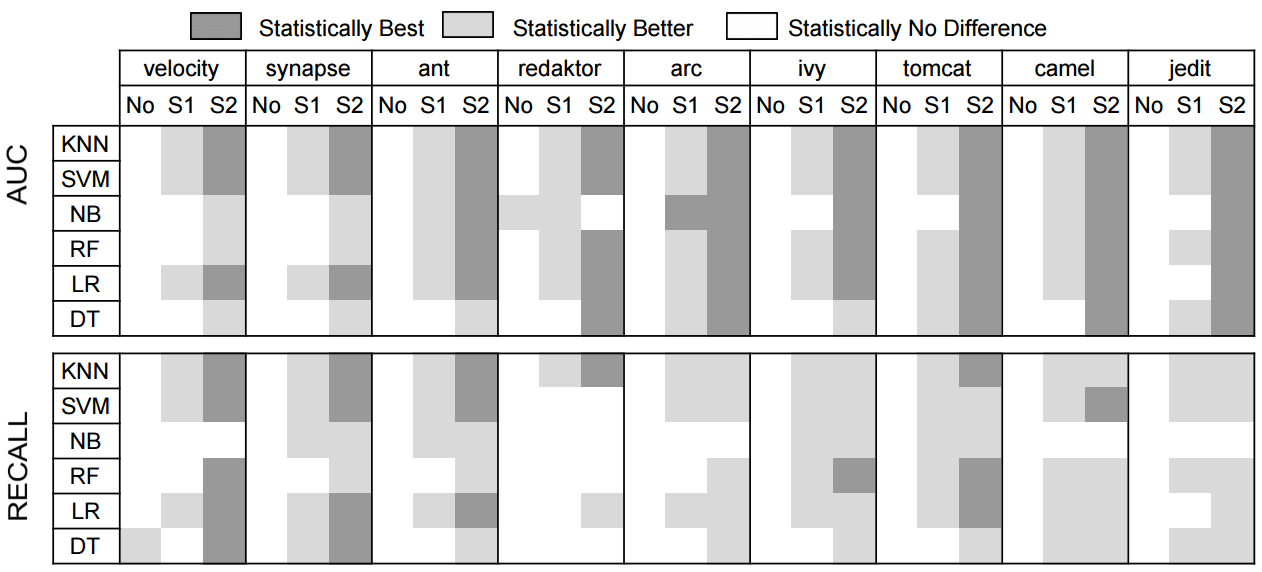
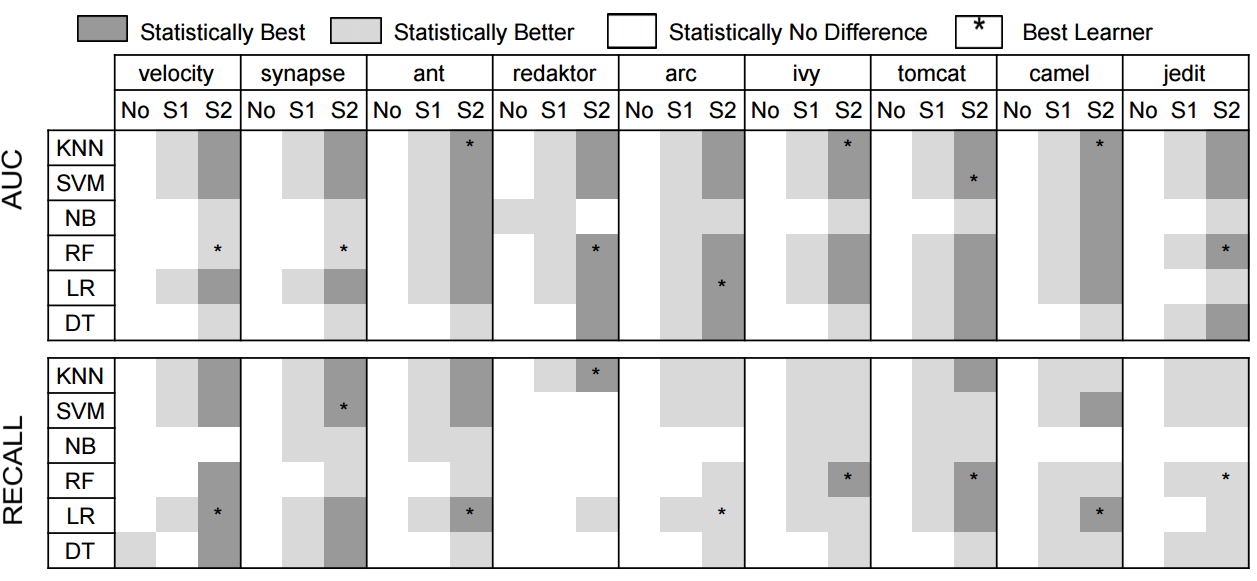
update

diff --git a/result.tex b/result.tex
@@ -1,20 +1,19 @@
 \newcommand\fnote[1]{\captionsetup{font=small}\caption*{#1}}
 
-\begin{figure*}[!t]
-\begin{minipage}{.5\linewidth}
-\centering
-        \includegraphics[width=.95\linewidth]{./fig/AUC_recall_untuned.png}
-    \end{minipage}%
-\begin{minipage}{.5\linewidth}
-        \centering
-        \includegraphics[width=.95\linewidth]{./fig/prec_pf_untuned.png}
-    \end{minipage}%
-    \caption{SMOTE1 improvement over No-SMOTE. Legends represent the classifiers mentioned in \tion{classes}}
-    \vspace{-11pt}
-    \fnote{For subfigures (AUC, Recall and Precision): larger y-values are {\em better}, if the y-value goes {\em negative}, then the corresponding learner trained on SMOTE1 data performs {\em worse} than learner learnt on raw data. For false alarms, the plot must be interpreted differently: larger y-values are {\em worse}, if the y-value goes {\em positive}, then the corresponding learner trained on SMOTE1 data performs {\em worse} than learner learnt on raw data. The corresponding percentage of minority class (in this case, defective class) is written beside each dataset.}
-    \label{fig:untuned}
-\vspace{-0.5cm}
-\end{figure*}
+% \begin{figure*}[!t]
+% \begin{minipage}{.5\linewidth}
+% \centering
+%         \includegraphics[width=.95\linewidth]{./fig/AUC_recall_untuned.png}
+%     \end{minipage}%
+% \begin{minipage}{.5\linewidth}
+%         \centering
+%         \includegraphics[width=.95\linewidth]{./fig/prec_pf_untuned.png}
+%     \end{minipage}%
+%     \caption{SMOTE1 improvement over No-SMOTE. Legends represent the classifiers mentioned in \tion{classes}}
+%     \vspace{-11pt}
+%     \fnote{For subfigures (AUC, Recall and Precision): larger y-values are {\em better}, if the y-value goes {\em negative}, then the corresponding learner trained on SMOTE1 data performs {\em worse} than learner learnt on raw data. For false alarms, the plot must be interpreted differently: larger y-values are {\em worse}, if the y-value goes {\em positive}, then the corresponding learner trained on SMOTE1 data performs {\em worse} than learner learnt on raw data. The corresponding percentage of minority class (in this case, defective class) is written beside each dataset.}
+%     \label{fig:untuned}
+% \end{figure*}
 
 \begin{figure*}[!htbp]
 \begin{minipage}{.5\linewidth}
@@ -25,9 +24,9 @@
         \centering
         \includegraphics[width=.9\linewidth]{./fig/prec_pf.png}
     \end{minipage}%
-    \caption{Scott Knott analysis of No-SMOTE, SMOTE1 and SMOTE2. The column headers are denoted as No for No-SMOTE, S1 for SMOTE1 and S2 for SMOTE2.}
+    \caption{Scott Knott analysis of No-SMOTE, SMOTE1 and SMOTE2. The column headers are denoted as No for No-SMOTE, S1 for SMOTE1 and S2 for SMOTE2. $(\ast)$ Mark represents the best learner combined with its techniques.}
     \label{fig:stats}
-\vspace{-0.8cm}
+\vspace{-0.2cm}
 \end{figure*}
 
 \begin{figure*}[!t]
@@ -44,57 +43,33 @@
     \vspace{-10pt}
     \fnote{For subfigures (AUC, Recall and Precision): larger y-values are {\em better}, if the y-value goes {\em negative}, then the corresponding learner trained on SMOTE2 data performs {\em worse} than learner learnt on SMOTE1 data. For false alarms, the plot must be interpreted differently: larger y-values are {\em worse}, if the y-value goes {\em positive}, then the corresponding learner trained on SMOTE2 data performs {\em worse} than learner learnt on SMOTE1 data. The corresponding percentage of minority class (in this case, defective class) is written beside each dataset.}
     \label{fig:tuned}
-\vspace{-0.7cm}
-
 \end{figure*}
 
 \section{Results}
 \label{sect:results}
 
 \subsection{\textbf{RQ1: Is standard ``off-the-shelf'' SMOTE1 preprocessing method useful for defect prediction?}}
-Figure~\ref{fig:untuned} represents the improvement of SMOTE1 (median value) against the No-SMOTE (median value) results and Figure~\ref{fig:tuned} represents the improvement of SMOTE2 (median value) against SMOTE1 (median value) results. Each figure contains subfigures for all our 4 evaluation measures (mentioned in \tion{measure}) compared with 6 learners (mentioned in \tion{classes}). 
 
+Figure~\ref{fig:stats} shows Scott-Knott analysis of No-Smote, SMOTE1 and SMOTE2. Each subfigure shows the 4 different evaluation measures (mentioned in \tion{measure}) compared with 6 learners (mentioned in \tion{classes}). The columns are sorted in the decreasing percentage of defective classes from left to right.
 
+For many of the results in Figure~\ref{fig:stats}, the changes
+resulting from applying SMOTE1 are very modest. There are improvements in AUC and recall with SMOTE1 over No-Smote but the improvements are not big as compared with SMOTE2.
 
-For subfigures (AUC, Recall and Precision) in each Figure~\ref{fig:untuned} and \ref{fig:tuned}:
-\bi
-\item 
-{\em Larger} y-values
-are {\em better} 
-\item
-If the y-value goes {\em negative}, then the corresponding learner trained on SMOTE1/SMOTE2 data is {\em worse} than learner learnt on raw/SMOTE1 data respectively. 
-\ei
-For the false alarms, the
-plots must be interpreted differently:
-\bi
-\item
-{\em Larger} y-values are {\em worse};
-\item
-If the y-value goes {\em positive} then the corresponding learner trained on SMOTE1/SMOTE2 data is {\em worse} than learner learnt on raw/SMOTE1 data respectively.
-\ei
-In both the figures, the
-X-axis shows all 9 datasets in the decreasing percentage of defective classes from left to right. The corresponding percentage of minority class (defective class) is written beside each dataset. 
-According to the proponents
-of SMOTE, SMOTE's improvements should
-{\em increase} as we move left to right
-across those plots.
-
-For many of the results in  Figure~\ref{fig:untuned}, the changes
-resulting from applying SMOTE1 are very modest. (often, less than 20\%).
 The two consistent exceptions to that pattern are:
 \bi
 \item 
-KNN seems to be effected by SMOTE1 more than any other learner.
+SMOTE1 is not preferred when we can achieve better performance with SMOTE2
 \item 
-Occasionally, SMOTE1 leads to dramatic drops in precision but in many cases, they are not statistically significant different as show in Figure~\ref{fig:stats}.
-\item 
-Looking left-to-right across
-Figure~\ref{fig:untuned}c, we see more
-large positive increases on the
-right-hand-side than the left.   
+Occasionally, SMOTE1 leads to poor performance in precision and false alarm but in many cases, they are not statistically significant different as shown in Figure~\ref{fig:stats}.  
 \ei
 
-We are not seeing improvement in precision is because of the way in which SMOTE works. False positives (from Figure~\ref{fig:cmatrix}) do not get reduced after applying SMOTE. SMOTE generates synthetic examples within defective data samples and its neighbors making more denser region for positive samples. So if there are any actual negative samples surrounding these denser regions will now get wrongly classified as positive by learners. 
+We are not seeing improvement in precision and decrement in false alarm is behind its maths. Zhang's~\cite{menzies2007problems} equation as given by Zhang can be rearranged to:
+\[
+  \mathit{pf}=  \frac{pos}{neg} *\frac{1-\mathit{prec}}{\mathit{prec}}* \mathit{pd}\]
+
+Pos and neg in the equation represents the imbalance ratio among the data samples. When we consider, pos to neg ratio and $prec$ constant, we are seeing there is direct relation between $pf$ and $pd$. So if pd is improved, we are bound to see improvement in pf. On the other hand with prec, pf has indirect relation and since pf is increasing which is making prec improvements negligible.
+
+%  False positives (from Figure~\ref{fig:cmatrix}) do not get reduced after applying SMOTE. SMOTE generates synthetic examples within defective data samples and its neighbors making more denser region for positive samples. So if there are any actual negative samples surrounding these denser regions will now get wrongly classified as positive by learners. 
 
 % Based on these results,  we can best recommend SMOTE1 when:
 % \bi
@@ -122,15 +97,51 @@ sometimes, adversely affect
 precision.
 \end{lesson1}
 
+\begin{figure*}[!htbp]
+    \centering
+    \begin{minipage}{.33\textwidth}
+    \centering
+        \includegraphics[width=.95\linewidth]{./fig/k.png}
+        {\bf Figure~\ref{fig:para}a:} Tuned values for $k$.
+    \end{minipage}%
+    \begin{minipage}{.33\textwidth}
+    \centering
+        \includegraphics[width=.95\linewidth]{./fig/m.png}
+        {\bf Figure~\ref{fig:para}b:} Tuned values for $m$.
+    \end{minipage}
+    \begin{minipage}{.33\textwidth}
+    \centering
+        \includegraphics[width=.95\linewidth]{./fig/r.png}
+        {\bf Figure~\ref{fig:para}c:} Tuned values for $r$.
+    \end{minipage}
+    \caption{Datasets vs Parameter Variation}
+    \label{fig:para}
+\vspace{-0.4cm}
+\end{figure*}
+
 \subsection{\textbf{RQ2: Can SMOTE2 achieve better results?}}
 
 Figure~\ref{fig:tuned} shows the results
-after applying SMOTE2. All these
-plots show the {\em delta} between
-the results obtained by SMOTE1 and SMOTE2.
-Similar to Figure~\ref{fig:untuned} before, {\em positive}  values
-are better for AUC, recall and precision
-wile {\em negative} values are better for false alarms.
+after applying SMOTE2. The
+plot shows the {\em delta} between
+the results obtained by SMOTE2 over SMOTE1.
+
+For subfigures (AUC, Recall and Precision):
+\bi
+\item 
+{\em Larger} y-values
+are {\em better} 
+\item
+If the y-value goes {\em negative}, then the corresponding learner trained on SMOTE2 data is {\em worse} than learner learnt on SMOTE1 data respectively. 
+\ei
+For the false alarms, the
+plots must be interpreted differently:
+\bi
+\item
+{\em Larger} y-values are {\em worse};
+\item
+If the y-value goes {\em positive} then the corresponding learner trained on SMOTE2 data is {\em worse} than learner learnt on SMOTE1 data respectively.
+\ei
 
 The benefit of SMOTE2's tunings is clearly evident in the AUC results of  Figure~\ref{fig:tuned}a:
 all learners show large performance improvements. And from the Scott-Knott test shown in Figure~\ref{fig:stats}, SMOTE2 always have significantly best results for AUC. For recall, in most learners either SMOTE1 or SMOTE2 are significantly the same, or SMOTE2 performed better. 
@@ -153,9 +164,6 @@ SMOTE2 offers additional benefits for datasets that are not greatly
 imbalanced.
 \ei
 
- 
-
-
 
 % results are dramat
 % Now when we look at the results of AUC from figure~\ref{fig:tuned}a, only 1 bar is negative, and rest all the remaining 53 bars (in total 9 datasets with 6 learners in each) have  positive effect after when we tune the parameters of SMOTE1. We are seeing a maximum improvement of about 70\% and on an average 50\% for each learner in all datasets. These improvements are quite steep in nature and just to remind you that these results are improvement over SMOTE1. If we combine the results, then we can surely say to tune the parameters of SMOTE1 and train using any learner, we will get atleast 100\% improvement in most cases.
@@ -173,29 +181,6 @@ In summary:
 \end{lesson1}
 
 %Based on these results, we strongly recommend SMOTE2 for handling not just unbalanced datasets but, in fact, for all datasets.
-
-\begin{figure*}[!t]
-    \centering
-    \begin{minipage}{.33\textwidth}
-    \centering
-        \includegraphics[width=.95\linewidth]{./fig/k.png}
-        {\bf Figure~\ref{fig:para}a:} Tuned values for $k$.
-    \end{minipage}%
-    \begin{minipage}{.33\textwidth}
-    \centering
-        \includegraphics[width=.95\linewidth]{./fig/m.png}
-        {\bf Figure~\ref{fig:para}b:} Tuned values for $m$.
-    \end{minipage}
-    \begin{minipage}{.33\textwidth}
-    \centering
-        \includegraphics[width=.95\linewidth]{./fig/r.png}
-        {\bf Figure~\ref{fig:para}c:} Tuned values for $r$.
-    \end{minipage}
-    \caption{Datasets vs Parameter Variation}
-    \label{fig:para}
-\vspace{-0.4cm}
-\end{figure*}
-
 
 \subsection{\textbf{RQ3: Does hyperparameter optimization lead to different optimal configurations for different datasets?}}
 
@@ -220,8 +205,16 @@ Clearly:
 \end{lesson1}
  That is,  reusing tunings  suggested  by  any other  previous study  for any dataset is \underline{{\em not}} recommended. Instead,  it is better to
       use  automatic  tuning  methods  to find the best tuning parameters for the current dataset.
-      
-\begin{figure*}[!t]
+
+\begin{figure}[!htbp]
+  \captionsetup{justification=centering}
+  \includegraphics[width=\linewidth]{./fig/runtimes.png}
+  \caption{Datasets vs Runtimes}
+  \label{runtime}
+\vspace{-0.7cm}
+\end{figure}
+
+\begin{figure*}[!htbp]
 \begin{minipage}{.5\linewidth}
 \centering
         \includegraphics[width=.95\linewidth]{./fig/AUC_auc1.png}
@@ -236,7 +229,6 @@ Clearly:
     \fnote{For subfigures (AUC, Recall and Precision): larger y-values are {\em better}, if the y-value goes {\em negative}, then the corresponding learner trained on SMOTE2 data performs {\em worse} than learner learnt on SMOTE1 data. For false alarms, the plot must be interpreted differently: larger y-values are {\em worse}, if the y-value goes {\em positive}, then the corresponding learner trained on SMOTE2 data performs {\em worse} than learner learnt on SMOTE1 data. The corresponding percentage of minority class (in this case, defective class) is written beside each dataset.}
     \label{fig:auc}
 \vspace{-0.6cm}
-
 \end{figure*} 
 
 \subsection{\textbf{RQ4: Is tuning impractically slow?}}
@@ -252,23 +244,15 @@ recommendation.
 
 
  Figure~\ref{runtime} shows,  in circle and square markers, the
-  runtimes required to run SMOTE1 and SMOTE2 respectively.  The
+  runtimes required to run SMOTE1 and SMOTE2 respectively and the numbers shown in the graph is an average over 6 learners.  The
   longer runtimes (in square) include the times required for DE to find
-  the tunings. There is a disadvantage with SMOTE2. Figure~\ref{runtime} shows SMOTE1 reporting all the measures in the shown time. On the other hand, here SMOTE2 reports runtimes when trying to maximize recall. If it has to provide all the other 3 measures as well, it would take 3 times more than the above number which is not recommended in a real world scenario. 
-  
-  \begin{figure}[!htbp]
-  \captionsetup{justification=centering}
-  \includegraphics[width=\linewidth]{./fig/runtimes.png}
-  \caption{Datasets vs Runtimes}
-  \label{runtime}
-\vspace{-0.7cm}
-\end{figure}
+  the tunings and this is a disadvantage with SMOTE2. Figure~\ref{runtime} shows SMOTE1 reporting all the measures in the shown time. On the other hand, here SMOTE2 reports runtimes when trying to maximize recall. If it has to provide all the other 3 measures as well, it would take 3 times more than the above number which is not recommended in a real world scenario. 
   
   The work around would be is to try maximizing SMOTE2 for AUC tuning goal. AUC represents the area under the curve for pf (false alarm) and recall. When AUC improves, the heuristic is that false alarm must be getting lower and recall must be improving. And if false alarm is getting lower then precision is improving as well~\cite{menzies2007data}. We report results of AUC, Precision, Recall and False alarm in Figure~\ref{fig:auc} when we tried maximizing only AUC. We are seeing a similar conclusions as answered in our RQ2. 
   
   This additional result shows that, tuning slows down the training by a factor of up to
-  five for 1 goal (which is very close to our theoretical prediction) but the improvements achieved are quite advantageous.
+  twenty for 1 goal (which is very close to our theoretical prediction) but the improvements achieved are quite advantageous.
 
 \begin{lesson1}
-    Tuning with DE makes training four to five times slower, but the improvements in performance with respect to AUC and recall justifies the extra time required for training.
+    Tuning with DE makes training about twenty times slower, but the improvements in performance with respect to AUC and recall justifies the extra time required for training.
 \end{lesson1}

diff --git a/main.tex b/main.tex
@@ -1,6 +1,6 @@
 
 %\documentclass[sigconf,review, anonymous]{acmart}
-\documentclass[conference]{IEEEtran}
+\documentclass[10pt,conference]{IEEEtran}
 
 \usepackage{graphicx}
 \usepackage[colorinlistoftodos]{todonotes}
@@ -153,8 +153,8 @@ uses parameters  found by an optimization technique
 called Differential Evolution (DE). 
 
  In studies with SMOTE1 and SMOTE2, performed on
- 9 defect datasets, we observe that SMOTE1 may or may not be useful depending on the evaluation goal. We observed mixed results for precision (sometimes better sometimes worse).
-On the other hand, SMOTE2 lead to dramatic improvements in  AUC (pf, recall) and modest improvements were seen in recall and these were much better than SMOTE1.
+ 9 imbalanced defect datasets, we observe that SMOTE1 may or may not be useful depending on the evaluation goal. We observed mixed results for precision (sometimes better sometimes worse).
+On the other hand, SMOTE2 lead to dramatic improvements in  AUC (pf, recall) and good improvements were seen in recall and these were much better than SMOTE1.
 
 We conclude that (a)~SMOTE
 is useful but (b)~it is best {\em not} to use the default parameters of standard SMOTE1. More generally, we caution all researchers to tune their analytics tools before
@@ -188,18 +188,19 @@ data analytics for software engineering, SMOTE,  imbalanced data, preprocessing
 
 \section{Introduction}
 
+
 Since time and manpower are finite resources, it
 makes sense to assign personnel and/or resources to areas of
-a software system with a higher probable quantity of defects. Currently researchers working in defect prediction focuses on (i) estimating the number of defects remaining in software systems, (ii) discovering defect associations, and (iii) classifying the defect-proneness of software components, typically into two classes defect-prone and not defect-prone. 
+a software system with a higher probable quantity of defects~\cite{d2010extensive}. Currently researchers~\cite{song2011general} working in defect prediction focuses on (i) estimating the number of defects remaining in software systems, (ii) discovering defect associations, and (iii) classifying the defect-proneness of software components, typically into two classes defect-prone and not defect-prone. 
 
 This paper deals with the third type of problem for code metrics (especially, the 
 CK object-oriented metrics~\cite{chidamber1994metrics}).
-Our task is to classify the defect-proneness of software components, typically into two classes, defective and not defective.
+Our task is to classify the defect-proneness of software components, typically into two classes, defective and not defective. 
 
 One issue with this kind of research is deciding
 which data mining algorithm is best for a particular
 dataset. In a comparative study of numerous
-learners for defect prediction, Ghotra et al.~\cite{ghotra2015revisiting} recommended six learners: Naive Bayes, Logistic regression, Support Vector Machines, Nearest Neighbor, decision trees and Random forest. One of the limitations of their
+learners for defect prediction, Ghotra et al.~\cite{ghotra2015revisiting} recommended six learners: Naive Bayes, Logistic regression, Support Vector Machines, Nearest Neighbor, decision trees and Random forest. One of the limitation of their
 analysis was the effects of class imbalance for such models was not explored.
 This is an important property
 since most software systems have less percentage of defective classes compared to non-defective class. Accordingly, this paper
@@ -213,7 +214,7 @@ since it is known to adversely affect
 many machine learning algorithms such as decision tress,
 neural networks or support vectors machines \cite{japkowicz2002class}. 
 
-Accordingly,   we evaluate the performance of learners with imbalanced data using a class balancing technique.
+Accordingly, we evaluate the performance of learners with imbalanced data using a class balancing technique.
 We examine a standard off-the-shelf SMOTE, called SMOTE1, which uses
 the default parameters for that algorithm. 
 The results were not promising,
@@ -257,7 +258,7 @@ explore  the following  questions:
    impractically
    slow?} 
  
- \begin{lesson}Tuning using DE makes training runtimes four to five times slower, but given
+ \begin{lesson}Tuning using DE makes training runtimes about twenty times slower, but given
  the large performance improvements,
  the extra effort is justifiable. \end{lesson}
  
@@ -534,8 +535,8 @@ Fu et al.~\cite{fu2016tuning} showed that using DE to tune the parameters of sof
 \section{Experimental Setup}
 \label{sect:experiment}
 
-All the data, source code and results can be found online\footnote{Blinded for peer review}.
-%\footnote{https://github.com/ai-se/Smote\_tune}.
+All the data, source code and results can be found online%\footnote{Blinded for peer review}.
+\footnote{https://github.com/ai-se/Smote\_tune}.
 We employ 3 techniques which we have named as, (a) Baseline learner results without SMOTE (No-SMOTE), (b) Standard SMOTE with default parameters (SMOTE1) and (c) SMOTE1 tuned using DE (SMOTE2).  Our implementation currently uses 5 nearest neighbors for SMOTE1 method and for SMOTE2, DE finds the best $k$. Synthetic samples
 are generated in the following way:
 \bi
